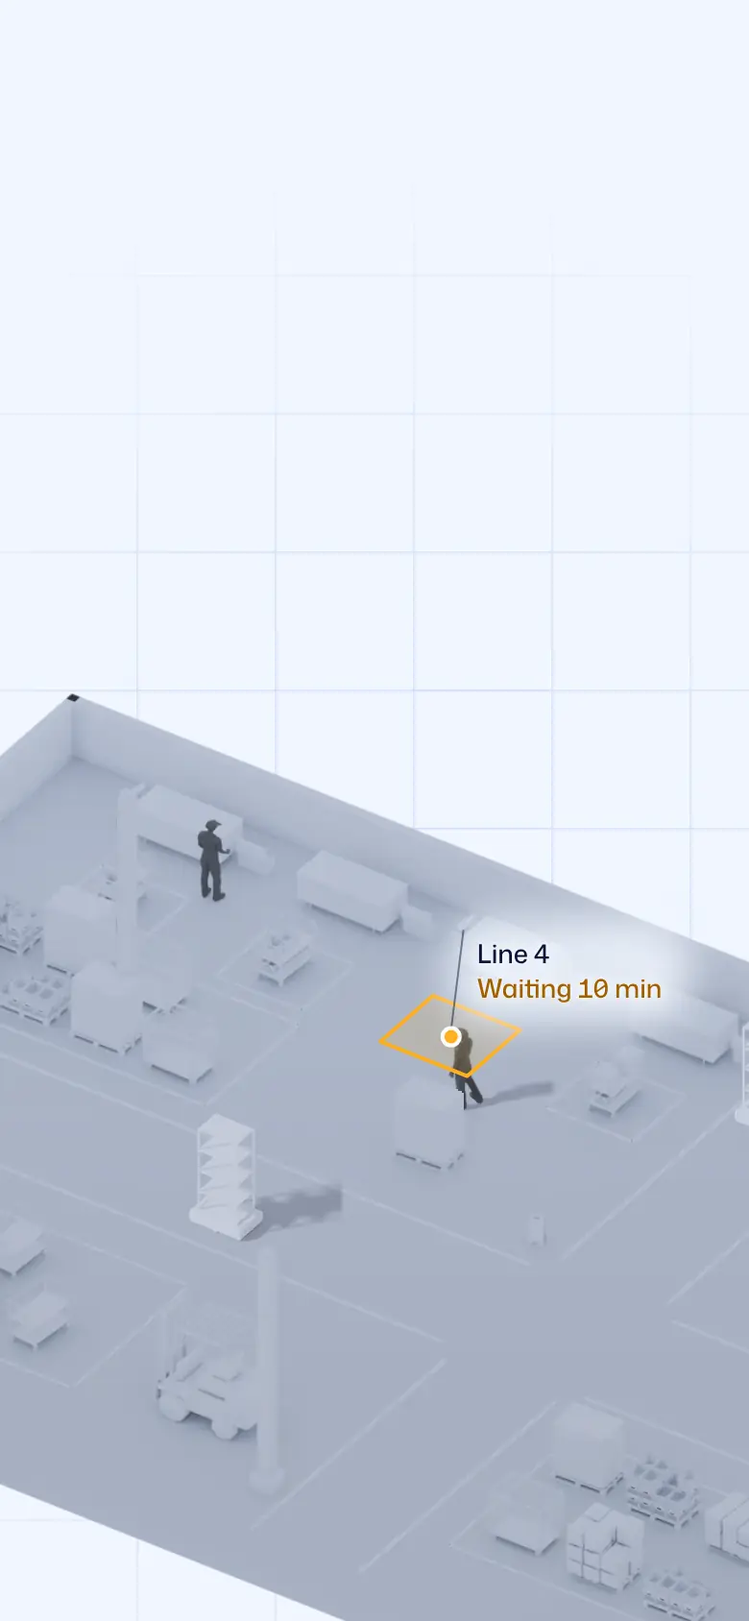
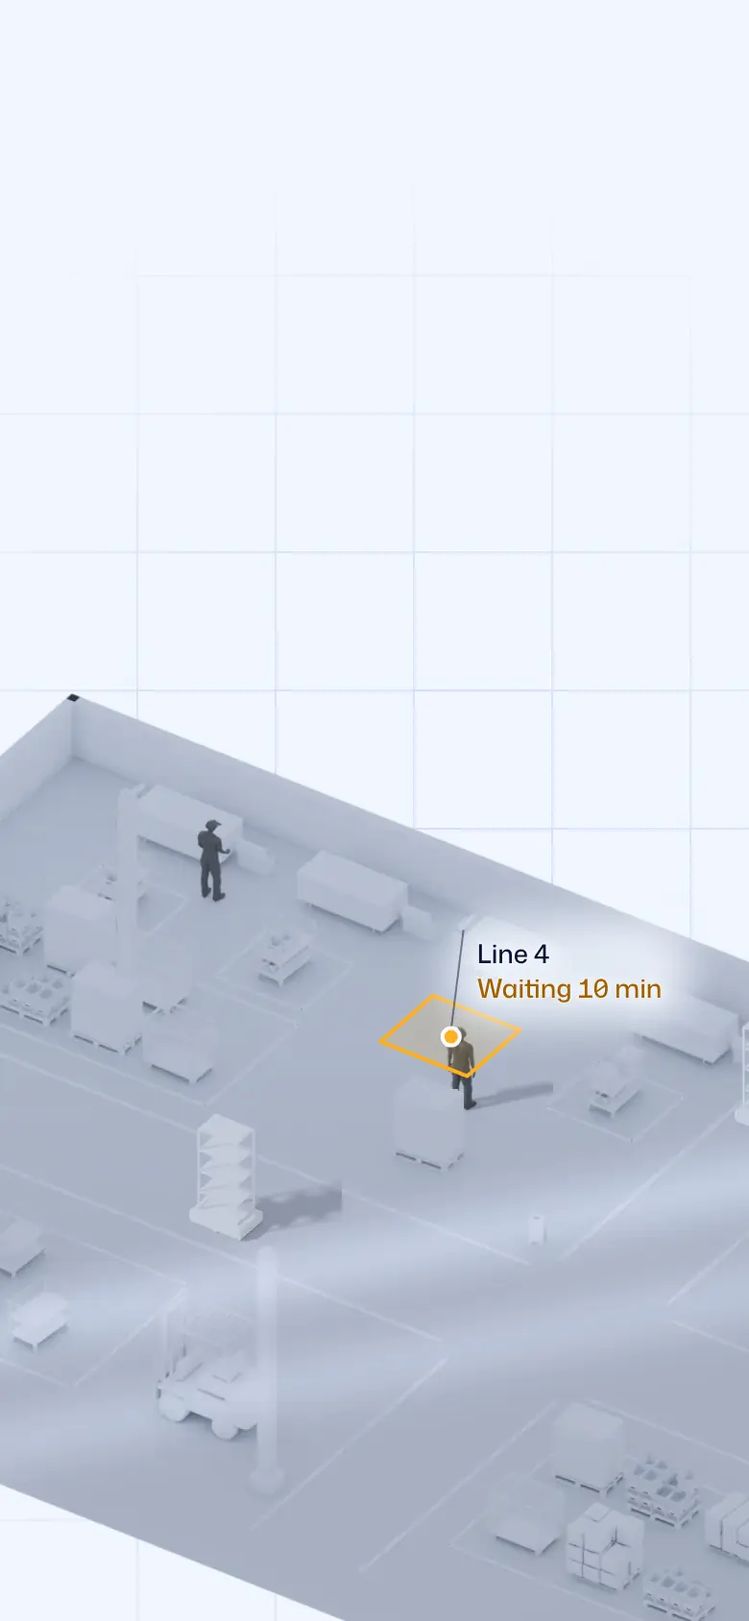
Explainer directed as a film: the supervisor's arc, the turn, chapter cards, focus and window light
He stops at a corner to look both ways and stands at a dead end; the
picture goes dark for a breath before Found with one last clock tick;
Lost, Found and Seen arrive as title cards; his wasted walk stays on the
floor beside the trolley's recorded journey; close shots fall out of focus
behind the subject (mip bias, no extra reads); window light crawls across
the floor while the minutes pass; the plant hums and a clock ticks in Lost.
The close comes back to him at his station, tablet in hand: he never had
to walk. New pose sheet from the CAD figure (sprites3.py, packposes.py).

Claude-Session: https://claude.ai/code/session_01YEydMJrMXd25Uxd8C1TWVL

Changed region(s): [[0.0, 0.7085, 1.0, 0.8318], [0.5846, 0.6469, 0.6462, 0.7085]]

diff --git a/studio/v1/js/floor.js b/studio/v1/js/floor.js
@@ -24,6 +24,8 @@
   var col = document.createElement('div'); col.className = 'flr-col';
   var head = document.createElement('div'); head.className = 'flr-head'; head.innerHTML = '<span class="flr-hn"><b></b></span><span class="flr-hp"><i></i><i></i><i></i></span>';
   var roll = document.createElement('div'); roll.className = 'flr-roll'; col.appendChild(head); col.appendChild(roll); stage.insertBefore(col, cv);
+  var dimEl = document.createElement('div'); dimEl.className = 'flr-dim'; dimEl.setAttribute('aria-hidden', 'true'); stage.insertBefore(dimEl, col);
+  var cardEl = document.createElement('div'); cardEl.className = 'flr-card'; cardEl.setAttribute('aria-hidden', 'true'); stage.insertBefore(cardEl, col);
   var hn = head.querySelector('b'), hp = [].slice.call(head.querySelectorAll('i')), CH = ['Lost', 'Found', 'Seen'], chNow = -1;
   var SS = { 3: [.14, .5], 4: [.22, .46], 5: [.06, .34] };                            // when a sentence's words light, where the picture needs them later than usual
   var AS = { 3: [.5, .78], 6: [.44, .78], 7: [.46, .62], 8: [.2, .7] }, AW = { 6: [.44, .55, .66, .75], 8: [.2, .22, .24, .26, .6, .62, .64] };   // the same for the second line; some words are timed to things in the picture
@@ -81,7 +83,7 @@
   function chase(v, t, up, dn, dt) { return t > v ? Math.min(t, v + dt / up) : Math.max(t, v - dt / dn); }
   function textFrame(tb, dt) {
     var i = Math.min(NB - 1, Math.floor(tb)), u = Math.min(1, tb - i), ch = Math.min(2, Math.floor(i / 3));
-    if (ch !== chNow) { chNow = ch; hn.textContent = CH[ch]; hn.classList.remove('sw'); void hn.offsetWidth; hn.classList.add('sw'); }
+    if (ch !== chNow) { if (live && onScreen && (ch > chNow || chNow < 0) && ap > .6) { cardEl.textContent = CH[ch]; cardEl.classList.remove('go'); void cardEl.offsetWidth; cardEl.classList.add('go', 'c' + ch); cardEl.classList.remove('c' + (ch ? ch - 1 : 2)); } chNow = ch; hn.textContent = CH[ch]; hn.classList.remove('sw'); void hn.offsetWidth; hn.classList.add('sw'); }
     hp.forEach(function (e, k) { var f = Math.max(0, Math.min(1, tb - ch * 3 - k)); if (f !== e.f) { e.f = f; e.style.setProperty('--f', f.toFixed(3)); } });
     head.style.opacity = ease(seg(ap, .3, .7));
     leads.length = 0;
@@ -185,7 +187,7 @@
 
   // ---- sound: made here, nothing to download. It starts only after a tap, a click or a key.
   var snd = (function () {
-    var on = true, ctx = null, out = null, air = null, lastPop = 0;
+    var on = true, ctx = null, out = null, air = null, lastPop = 0, roomG = null, roomV = -1;
     try { if (localStorage.getItem('flr-snd2') === '0') on = false; } catch (e) {}
     function label() { sndB.textContent = on ? 'Sound on' : 'Sound off'; sndB.setAttribute('aria-pressed', on ? 'true' : 'false'); }
     // Browsers keep a page silent until the first click, tap or key. Until then a quiet line says that one click anywhere starts the sound.
@@ -198,8 +200,9 @@
       ctx = new AC(); ctx.onstatechange = hintSet; out = ctx.createGain(); out.gain.value = 0; out.connect(ctx.destination);
       var n = ctx.sampleRate * 2, buf = ctx.createBuffer(1, n, ctx.sampleRate), d = buf.getChannelData(0), v = 0;
       for (var i = 0; i < n; i++) { v = (v + (Math.random() * 2 - 1) * .02) / 1.02; d[i] = v * 3.2; }
-      air = ctx.createBufferSource(); air.buffer = buf; air.loop = true; var f = ctx.createBiquadFilter(); f.type = 'lowpass'; f.frequency.value = 420; var g = ctx.createGain(); g.gain.value = .5;
+      air = ctx.createBufferSource(); air.buffer = buf; air.loop = true; var f = ctx.createBiquadFilter(); f.type = 'lowpass'; f.frequency.value = 420; var g = ctx.createGain(); g.gain.value = .5; roomG = g;
       air.connect(f); f.connect(g); g.connect(out); air.start();
+      var hum = ctx.createOscillator(), hg = ctx.createGain(); hum.frequency.value = 55; hg.gain.value = .035; hum.connect(hg); hg.connect(g); hum.start();   // the plant's own low hum, under the air
     }
     ['pointerdown', 'pointerup', 'keydown', 'touchend', 'click'].forEach(function (ev) { window.addEventListener(ev, function () { boot(); if (ctx && ctx.state === 'suspended') ctx.resume(); hintSet(); }, { passive: true }); });
     sndB.addEventListener('click', function () { on = !on; try { localStorage.setItem('flr-snd2', on ? '1' : '0'); } catch (e) {} label(); if (on) boot(); hintSet(); });
@@ -218,6 +221,8 @@
     var SC = [523.25, 587.33, 659.25, 783.99, 880, 1046.5, 1174.7, 1318.5];
     return {
       gate: gate, step: function () { tick(.5); },
+      tock: function (v) { if (!ctx || !on || !onScreen) return; tone(2093, 0, .045, v * .5, 'square'); tick(v); },
+      room: function (v) { v = Math.round(v * 20) / 20; if (!roomG || v === roomV) return; roomV = v; roomG.gain.setTargetAtTime(.5 * v + .02, ctx.currentTime, .35); },
       pop: function (k) { var n = performance.now(); if (n - lastPop < 45) return; lastPop = n; tone(SC[k % SC.length], 0, .5, .085); },
       pulse: function (d) { tone(1568, 0, .35, .11); tone(784, 0, .5, .05); d.forEach(function (x, i) { tone([1174.7, 1318.5, 1046.5][i], .12 + x * .012, .7, .07); }); },
       fix: function () { tone(659.25, 0, .9, .09); tone(987.77, .09, 1.1, .07); },
@@ -286,6 +291,8 @@
       case 5: return phone ? { f: [H[0], H[1], .8], s: 5.4 } : { f: [H[0] - .2, H[1], .8], s: 8.4 };
       case 6: return phone ? { f: [14.5, 10, .5], s: 31 } : { f: [16, 9.6, .5], s: 38 };
       case 7: return phone ? { f: [15.5, 9.6, .5], s: 28 } : { f: [16.4, 9.4, .5], s: 35 };
+      case 9: var L9 = shotOf(8, 1, st), e9 = ease5(seg(u, .06, .56)), T9 = phone ? { f: [WALK[0][0], WALK[0][1] - .6, .9], s: 10 } : { f: [WALK[0][0] - .4, WALK[0][1] - .2, .9], s: 16 };
+        return { f: [0, 1, 2].map(function (k) { return lerp(L9.f[k], T9.f[k], e9); }), s: Math.exp(lerp(Math.log(L9.s), Math.log(T9.s), e9)) };
       default: var e8 = i === 8 ? ease5(seg(u, .3, .8)) : 1; return phone ? { f: [lerp(14.5, 16.7, e8), lerp(10, 7.8, e8), lerp(.5, 9.5, e8)], s: lerp(34, 48, e8) } : { f: [lerp(15.6, 14.6, e8), lerp(9.6, 10.4, e8), lerp(.5, 10, e8)], s: lerp(41, 62, e8) };
     }
   }
@@ -305,10 +312,26 @@
   var things = [], amberIdx = {}, AMRI = [];
   function story(i, u) {
     var st = {};
-    var wd = i < 1 ? 0 : i === 1 ? .7 * ease(seg(u, .12, 1)) : i === 2 ? .7 + .3 * ease(seg(u, 0, .6)) : 1;
-    st.wd = wd * WTOT; st.walker = walkAt(st.wd);
-    st.walkA = i < 3 ? 1 : i === 3 ? 1 - seg(u, 0, .2) : i === 4 ? seg(u, .3, .5) : 1;
-    st.trail = i === 1 ? 1 : i === 2 ? 1 : i === 3 ? 1 - seg(u, 0, .3) : 0;
+    // the clock runs straight on; his walk stops twice: at the first corner he looks both ways, at the dead end he just stands
+    st.clk = i < 1 ? 0 : i === 1 ? .7 * ease(seg(u, .12, 1)) : i === 2 ? .7 + .3 * ease(seg(u, 0, .6)) : 1;
+    var c1 = WL[2], c2 = WL[3], d1 = .7 * WTOT, d, pose = null;
+    if (i < 1) { d = 0; pose = [1, 1]; }
+    else if (i === 1) {
+      if (u < .12) { d = 0; pose = [1, 1]; } else if (u < .32) d = c1 * seg(u, .12, .32); else if (u < .44) { d = c1; pose = [u < .38 ? 1 : 2, 3]; }
+      else if (u < .54) d = lerp(c1, c2, seg(u, .44, .54)); else if (u < .66) { d = c2; pose = [3, 2]; } else d = lerp(c2, d1, seg(u, .66, 1));
+    } else if (i === 2) { d = lerp(d1, WTOT, ease(seg(u, 0, .6))); if (u >= .6) pose = [4, 3]; }
+    else { d = WTOT; pose = i < 6 ? [0, 2] : [i === 9 && u > .55 && u < .68 ? 6 : 5, 1]; }
+    st.wd = d; st.walker = i < 6 ? walkAt(d) : { x: WALK[0][0], y: WALK[0][1], h: 1, seg: 1 }; st.pose = pose;
+    st.walkA = i < 3 ? 1 : i === 3 ? 1 - seg(u, 0, .2) : i === 4 ? seg(u, .3, .5) : i === 5 ? 1 - seg(u, .88, 1) : i === 6 ? seg(u, .3, .5) : 1;
+    // his wasted walk stays on the floor while the trolley's own journey is drawn beside it
+    st.trail = i === 1 ? 1 : i === 2 ? 1 : i === 3 ? 1 : i === 4 ? 1 : i === 5 ? 1 - seg(u, .1, .3) : 0;
+    // the turn: the light drops and the plant goes quiet for a moment before Found
+    st.dim = i === 2 ? ease(seg(u, .8, 1)) : i === 3 ? 1 - ease(seg(u, .05, .3)) : 0;
+    // window light crawling across the floor while the minutes pass
+    st.shaft = i < 3 ? [lerp(-2, 26, (i + u) / 3), .16 * (1 - st.dim)] : [0, 0];
+    // focus: the far plant goes soft on the close shots
+    st.dof = i === 3 ? 2.6 * ease(seg(u, .1, .5)) : i === 4 ? 2.6 * (1 - seg(u, 0, .3)) : i === 5 ? 1.8 * ease(seg(u, .3, .6)) : i === 9 ? 1.1 * ease(seg(u, .3, .6)) : 0;
+    st.fp = i <= 4 ? M.tag : i === 5 ? [M.hero[0], M.hero[1], .9] : [WALK[0][0], WALK[0][1], .9];
     st.due = i <= 2 ? (i === 0 ? seg(u, .1, .22) : 1) : i === 3 ? 1 - seg(u, 0, .25) : 0;
     st.meas = i === 2 ? ease(seg(u, .08, .42)) : 0; st.measA = i === 2 ? 1 : i === 3 ? 1 - seg(u, 0, .25) : 0;
     st.tag = i < 3 ? 0 : i === 3 ? ease(seg(u, .3, .44)) : 1;
@@ -321,7 +344,7 @@
     st.all = i < 6 ? 0 : i === 6 ? ease(seg(u, .86, .97)) : 1;
     st.dots = i < 5 ? 0 : 1;
     st.amber = i === 7 ? ease(seg(u, .56, .68)) : i >= 8 ? 1 : 0;
-    st.l1 = i < 8 ? 0 : i === 8 ? ease(seg(u, .2, .3)) : 1; st.l2 = 0; st.l3 = i < 8 ? 0 : i === 8 ? ease5(seg(u, .34, .8)) : 1;
+    st.l1 = i < 8 ? 0 : i === 8 ? ease(seg(u, .2, .3)) : 1; st.l2 = 0; st.l3 = i < 8 ? 0 : i === 8 ? ease5(seg(u, .34, .8)) : 1 - ease(seg(u, .02, .32));
     // sunlight: Lost stands under a flat sky. Light opens around the first thing that is located, then crosses the whole floor.
     st.sun = i < 5 ? 0 : i === 5 ? 4.5 * ease(seg(u, .2, .5)) : i === 6 ? lerp(4.5, 48, ease(seg(u, .03, .42))) : 99;
     // colour script: Lost is a cold, drained morning; the light that comes with the first located trolley warms the plant for good
@@ -356,17 +379,18 @@
 
   // ---- WebGL
   var VS1 = 'attribute vec2 a;void main(){gl_Position=vec4(a,0.,1.);}';
-  var FS1 = 'precision highp float;uniform vec2 uRes,uA,uF,uPl;uniform float uPpm;uniform sampler2D tWc,tWk,tMc,tMk,tCc,tCk,tXc,tXk,tWi,tMi,tCi,tXi,tLut;uniform vec4 uMid,uClose,uMac,uTx,uSun;uniform vec3 uW;uniform vec2 uO,uIa,uIb,uDr;uniform float uDay,uCool;uniform sampler2D tD;float gF;' +
+  var FS1 = 'precision highp float;uniform vec2 uRes,uA,uF,uPl;uniform float uPpm;uniform sampler2D tWc,tWk,tMc,tMk,tCc,tCk,tXc,tXk,tWi,tMi,tCi,tXi,tLut;uniform vec4 uMid,uClose,uMac,uTx,uSun;uniform vec3 uW;uniform vec2 uO,uIa,uIb,uDr;uniform float uDay,uCool,uDof,uFd;uniform vec2 uSh;uniform sampler2D tD;float gF;' +
     'vec3 grade(vec3 col,float L,float dn,vec2 s){float lum=dot(col,vec3(.2126,.7152,.0722));float q=uCool*(1.-.6*L);float wv=L*(1.-uCool);col=mix(col,col*col*(3.-2.*col),.22+.18*wv);col=mix(col,vec3(lum)*vec3(.87,.92,1.04),q*.5);col*=1.-.07*q;col+=wv*(vec3(.05,.025,-.035)*(1.-.35*uDay)*smoothstep(.3,1.,lum)+vec3(-.02,-.006,.03)*(1.-smoothstep(0.,.55,lum)));col=mix(col,mix(vec3(.8,.85,.94),vec3(.98,.95,.9),wv),smoothstep(.3,1.,dn)*(.24-.1*wv));float vg=smoothstep(.35,1.15,length((s-uA)/uRes.y));col*=1.-vg*(.1+.08*q);col.b+=vg*.02*q;return clamp(col,0.,1.);}' +
     'float edge(vec2 u){vec2 d=min(u,1.-u);return smoothstep(0.,.07,min(d.x,d.y));}float r1(sampler2D t,vec2 u){float id=texture2D(t,u).r*255.;float v=texture2D(tLut,vec2((id+.5)/256.,.5)).r;return id<.5?max(v,gF):v;}float rv(sampler2D t,vec2 u,float d){vec2 o=vec2(d*.5,d*.5*uRes.x/uRes.y*0.+d*.5);return(r1(t,u+vec2(-o.x,-o.y))+r1(t,u+vec2(o.x,-o.y))+r1(t,u+vec2(-o.x,o.y))+r1(t,u+vec2(o.x,o.y)))*.25;}' +
     'void main(){vec2 s=vec2(gl_FragCoord.x,uRes.y-gl_FragCoord.y);vec2 m=(s-uA)/uPpm+uF;vec2 uv=m/uPl;vec2 wq=uv-uO;gF=1.-smoothstep(uSun.z-uSun.w,uSun.z,distance(vec2(dot(uIa,wq),dot(uIb,wq)),uSun.xy));' +
-    'vec4 c=vec4(0.);if(uv.x>0.&&uv.x<1.&&uv.y>0.&&uv.y<1.)c=mix(texture2D(tWk,uv),texture2D(tWc,uv),rv(tWi,uv,uTx.x));' +
-    'if(uW.x>0.){vec2 u=(uv-uMid.xy)/uMid.zw;if(u.x>0.&&u.x<1.&&u.y>0.&&u.y<1.)c=mix(c,mix(texture2D(tMk,u),texture2D(tMc,u),rv(tMi,u,uTx.y)),edge(u)*uW.x);}' +
-    'if(uW.y>0.){vec2 u=(uv-uClose.xy)/uClose.zw;if(u.x>0.&&u.x<1.&&u.y>0.&&u.y<1.)c=mix(c,mix(texture2D(tCk,u),texture2D(tCc,u),rv(tCi,u,uTx.z)),edge(u)*uW.y);}' +
-    'if(uW.z>0.){vec2 u=(uv-uMac.xy)/uMac.zw;if(u.x>0.&&u.x<1.&&u.y>0.&&u.y<1.)c=mix(c,mix(texture2D(tXk,u),texture2D(tXc,u),rv(tXi,u,uTx.w)),edge(u)*uW.z);}' +
+    'vec4 dd=texture2D(tD,uv);float dn=(dd.r*65280.+dd.g*255.)/65535.;float bb=uDof*smoothstep(.08,2.2,abs(dn-uFd)*(uDr.y-uDr.x));' +
+    'vec4 c=vec4(0.);if(uv.x>0.&&uv.x<1.&&uv.y>0.&&uv.y<1.)c=mix(texture2D(tWk,uv,bb),texture2D(tWc,uv,bb),rv(tWi,uv,uTx.x));' +
+    'if(uW.x>0.){vec2 u=(uv-uMid.xy)/uMid.zw;if(u.x>0.&&u.x<1.&&u.y>0.&&u.y<1.)c=mix(c,mix(texture2D(tMk,u,bb),texture2D(tMc,u,bb),rv(tMi,u,uTx.y)),edge(u)*uW.x);}' +
+    'if(uW.y>0.){vec2 u=(uv-uClose.xy)/uClose.zw;if(u.x>0.&&u.x<1.&&u.y>0.&&u.y<1.)c=mix(c,mix(texture2D(tCk,u,bb),texture2D(tCc,u,bb),rv(tCi,u,uTx.z)),edge(u)*uW.y);}' +
+    'if(uW.z>0.){vec2 u=(uv-uMac.xy)/uMac.zw;if(u.x>0.&&u.x<1.&&u.y>0.&&u.y<1.)c=mix(c,mix(texture2D(tXk,u,bb),texture2D(tXc,u,bb),rv(tXi,u,uTx.w)),edge(u)*uW.z);}' +
     'float L=max(gF,uDay);c.rgb*=mix(vec3(.9,.92,.955),vec3(1.),L);' +
     'vec2 wf=vec2(dot(uIa,wq),dot(uIb,wq));vec2 gp=fract(wf/vec2(7.5,6.6))-.5;float pool=smoothstep(.44,.08,length(gp*vec2(1.,1.25)));' +
-    'if(c.a>.001){vec3 col=c.rgb/c.a;col*=1.+.07*pool*L*(1.-uCool);col+=vec3(.06,.035,0.)*gF*(1.-gF)*4.*(1.-uDay);vec4 dd=texture2D(tD,uv);float dn=(dd.r*65280.+dd.g*255.)/65535.;c.rgb=grade(col,L,dn,s)*c.a;}gl_FragColor=c;}';
+    'if(c.a>.001){vec3 col=c.rgb/c.a;col*=1.+.07*pool*L*(1.-uCool);col+=vec3(.06,.035,0.)*gF*(1.-gF)*4.*(1.-uDay);float pr=dot(wf,vec2(.8,-.6))-uSh.x;float sh=uSh.y*(exp(-pr*pr/1.3)+.7*exp(-(pr-3.4)*(pr-3.4)/1.3));col=col*(1.+sh)+sh*vec3(.035,.025,.0);c.rgb=grade(col,L,dn,s)*c.a;}gl_FragColor=c;}';
   var VS2 = 'attribute vec2 a;uniform vec2 uRes,uA,uF;uniform float uPpm;uniform vec4 uR;varying vec2 vU,vM;void main(){vU=a;vM=uR.xy+a*uR.zw;vec2 s=uA+(vM-uF)*uPpm;gl_Position=vec4(s.x/uRes.x*2.-1.,1.-s.y/uRes.y*2.,0.,1.);}';
   var FS2 = 'precision highp float;varying vec2 vU,vM;uniform sampler2D tAt,tD;uniform vec2 uCa,uCb,uPl,uDr,uRes,uA;uniform float uMix,uAl,uBy,uBd,uTan,uCool,uDay;' +
     'vec3 grade(vec3 col,float L,float dn,vec2 s){float lum=dot(col,vec3(.2126,.7152,.0722));float q=uCool*(1.-.6*L);float wv=L*(1.-uCool);col=mix(col,col*col*(3.-2.*col),.22+.18*wv);col=mix(col,vec3(lum)*vec3(.87,.92,1.04),q*.5);col*=1.-.07*q;col+=wv*(vec3(.05,.025,-.035)*(1.-.35*uDay)*smoothstep(.3,1.,lum)+vec3(-.02,-.006,.03)*(1.-smoothstep(0.,.55,lum)));col=mix(col,mix(vec3(.8,.85,.94),vec3(.98,.95,.9),wv),smoothstep(.3,1.,dn)*(.24-.1*wv));float vg=smoothstep(.35,1.15,length((s-uA)/uRes.y));col*=1.-vg*(.1+.08*q);col.b+=vg*.02*q;return clamp(col,0.,1.);}' +
@@ -411,7 +435,7 @@
     S.classList.add('flr-stills');                                             // the finished picture of this sentence shows while the plant loads
     stills = true;
     var L = (phone || Math.max(screen.width, screen.height) * (window.devicePixelRatio || 1) < 1500) ? 'P/' : 'L/';
-    var names = ['wide_col', 'wide_clay', 'mid_col', 'mid_clay', 'close_col', 'close_clay', 'macro_col', 'macro_clay', 'sprites'];
+    var names = ['wide_col', 'wide_clay', 'mid_col', 'mid_clay', 'close_col', 'close_clay', 'macro_col', 'macro_clay', 'sprites', 'poses'];
     var idn = ['wide_id', 'mid_id', 'close_id', 'macro_id'];
     // floor.json is always checked with the server and names the present set of pictures, so a new set is never mixed with a kept old one
     fetch(base + 'floor.json').then(function (r) { return r.json(); }).then(function (m) {
@@ -470,6 +494,10 @@
   var lastStep = -1, pulsed = false, fixed = false, T0 = performance.now(), frozen = null;
   function frame(tb, time) {
     var i = Math.min(NB - 1, Math.floor(tb)), u = Math.min(1, tb - i), st = story(i, u), c = camAt(i, u, st);
+    var dv = Math.round(st.dim * 100) / 100; if (dv !== frame.dv) { frame.dv = dv; stage.style.setProperty('--dim', dv); }
+    if (i <= 2 && st.dim < .5 && Math.floor(time) !== frame.tk) { frame.tk = Math.floor(time); snd.tock(.09); }
+    if (i === 2 && st.dim > .95 && !frame.held) { frame.held = true; snd.tock(.22); } if (i < 2 || (i === 2 && st.dim < .5)) frame.held = false;
+    snd.room(i <= 2 ? 1 - st.dim : i === 3 ? lerp(0, .35, seg(u, .3, 1)) : .35);
     // camera
     var area = phone ? vw * .98 : vw * .6, f = Mxy(c.f[0], c.f[1], c.f[2]), arr = 1 - easeO(seg(ap, .1, 1));
     cam.ppm = area / (c.s * (1 + .22 * arr)); cam.fx = f[0]; cam.fy = f[1]; cam.ax = phone ? vw * .5 : vw * .685; cam.ay = (phone ? vh * .63 : vh * .525) + arr * vh * .1;
@@ -481,7 +509,7 @@
     gl.uniform2f(U.uRes, W, Hh); gl.uniform2f(U.uA, cam.ax * dpr, cam.ay * dpr); gl.uniform2f(U.uF, cam.fx, cam.fy); gl.uniform1f(U.uPpm, cam.ppm * dpr); gl.uniform2f(U.uPl, M.scale, M.scale / M.aspect); setLut(st); gl.uniform1i(U.tLut, 12);
     ['wide_col', 'wide_clay', 'mid_col', 'mid_clay', 'close_col', 'close_clay', 'macro_col', 'macro_clay', 'wide_id', 'mid_id', 'close_id', 'macro_id'].forEach(function (n, k) { gl.activeTexture(gl.TEXTURE0 + k); gl.bindTexture(gl.TEXTURE_2D, tex[n].t); gl.uniform1i(U[['tWc', 'tWk', 'tMc', 'tMk', 'tCc', 'tCk', 'tXc', 'tXk', 'tWi', 'tMi', 'tCi', 'tXi'][k]], k); });
     var dt2 = M.x[0] * M.y[1] - M.y[0] * M.x[1]; gl.uniform2f(U.uO, M.o[0], M.o[1]); gl.uniform2f(U.uIa, M.y[1] / dt2, -M.y[0] / dt2); gl.uniform2f(U.uIb, -M.x[1] / dt2, M.x[0] / dt2);
-    gl.uniform1f(U.uDay, st.all); gl.uniform1f(U.uCool, st.cool); gl.uniform2f(U.uDr, M.depth[0], M.depth[1]); gl.activeTexture(gl.TEXTURE13); gl.bindTexture(gl.TEXTURE_2D, tex.depth.t); gl.uniform1i(U.tD, 13);
+    gl.uniform1f(U.uDay, st.all); gl.uniform1f(U.uCool, st.cool); gl.uniform2f(U.uDr, M.depth[0], M.depth[1]); gl.uniform1f(U.uDof, st.dof); gl.uniform1f(U.uFd, (depthOf(st.fp[0], st.fp[1], st.fp[2]) - M.depth[0]) / (M.depth[1] - M.depth[0])); gl.uniform2f(U.uSh, st.shaft[0], st.shaft[1]); gl.activeTexture(gl.TEXTURE13); gl.bindTexture(gl.TEXTURE_2D, tex.depth.t); gl.uniform1i(U.tD, 13);
     gl.uniform4f(U.uSun, M.hero[0], M.hero[1], st.sun, Math.min(6, st.sun * .8) + .01);
     gl.uniform4f(U.uTx, 1 / tex.wide_id.w, 1 / tex.mid_id.w, 1 / tex.close_id.w, 1 / tex.macro_id.w); gl.uniform4fv(U.uMid, M.mid); gl.uniform4fv(U.uClose, M.close); gl.uniform4fv(U.uMac, M.macro);
     var dp = cam.ppm * dpr, wp = tex.wide_col.w / M.scale, mp = tex.mid_col.w / (M.mid[2] * M.scale), cp = tex.close_col.w / (M.close[2] * M.scale);
@@ -494,11 +522,12 @@
     gl.activeTexture(gl.TEXTURE0); gl.bindTexture(gl.TEXTURE_2D, tex.sprites.t); gl.uniform1i(U.tAt, 0); gl.activeTexture(gl.TEXTURE1); gl.bindTexture(gl.TEXTURE_2D, tex.depth.t); gl.uniform1i(U.tD, 1);
     var sp = [], wk = M.spr.walk, ar = M.spr.amr, w = st.walker;
     var fr = Math.floor(st.wd / wk.stride * 8) % 8;
-    if (st.walkA > 0) sp.push({ x: w.x, y: w.y, s: wk.size, an: wk.anchor, ca: [fr, 4 + w.h], cb: [fr, 4 + w.h], mix: 1, al: st.walkA });
+    if (st.walkA > 0) { if (st.pose && tex.poses) sp.push({ x: w.x, y: w.y, s: wk.size, an: wk.anchor, ca: st.pose, cb: st.pose, mix: 1, al: st.walkA, t: tex.poses }); else sp.push({ x: w.x, y: w.y, s: wk.size, an: wk.anchor, ca: [fr, 4 + w.h], cb: [fr, 4 + w.h], mix: 1, al: st.walkA }); }
     for (var k = 0; k < 2; k++) { var A = AMRI[k]; var hd = ((Math.round(A.th / (Math.PI / 8)) % 16) + 16) % 16; sp.push({ x: A.x, y: A.y, s: ar.size, an: ar.anchor, ca: [hd % 8, hd >> 3], cb: [hd % 8, 2 + (hd >> 3)], mix: A.rev, al: 1 }); }
     sp.forEach(function (s) { s.d = depthOf(s.x, s.y, 0); }); sp.sort(function (a, b) { return b.d - a.d; });
     sp.forEach(function (s) {
       var b = Mxy(s.x, s.y, 0); gl.uniform4f(U.uR, b[0] - s.an[0] * s.s, b[1] - s.an[1] * s.s, s.s, s.s);
+      gl.activeTexture(gl.TEXTURE0); gl.bindTexture(gl.TEXTURE_2D, (s.t || tex.sprites).t);
       gl.uniform2f(U.uCa, s.ca[0] / 8, s.ca[1] / 8); gl.uniform2f(U.uCb, s.cb[0] / 8, s.cb[1] / 8); gl.uniform1f(U.uMix, s.mix); gl.uniform1f(U.uAl, s.al); gl.uniform1f(U.uBy, b[1]); gl.uniform1f(U.uBd, s.d);
       gl.drawArrays(gl.TRIANGLE_STRIP, 0, 4);
     });
@@ -557,7 +586,7 @@
             if (Math.abs(n.bi - i) <= 1 || n.at === 'due' || n.inn) { n.el.style.transform = 'translate(' + s[0].toFixed(1) + 'px,' + s[1].toFixed(1) + 'px)'; }
     });
     if (xyEl && i === 7) { var xv = 'x ' + AMRI[0].x.toFixed(1) + ' m, y ' + AMRI[0].y.toFixed(1) + ' m'; if (xv !== xyEl.t) { xyEl.t = xv; xyEl.textContent = xv; } }
-    if (searchEl) { var sm = fmt(st.wd / WTOT * 561, false), wm = Math.round(st.wd) + ' m walked'; if (sm !== searchEl.t) { searchEl.t = sm; searchEl.textContent = sm; } if (wm !== walkedEl.t) { walkedEl.t = wm; walkedEl.textContent = wm; } }
+    if (searchEl) { var sm = fmt(st.clk * 561, false), wm = Math.round(st.wd) + ' m walked'; if (sm !== searchEl.t) { searchEl.t = sm; searchEl.textContent = sm; } if (wm !== walkedEl.t) { walkedEl.t = wm; walkedEl.textContent = wm; } }
     // --- the ruler: a true length at this distance
     var nk = 0; while (nk < NICE.length - 1 && NICE[nk] * cam.ppm < 56) nk++;
     var nl = NICE[nk] < 1 ? Math.round(NICE[nk] * 100) + ' cm' : NICE[nk] + ' m'; scaleI.style.width = (NICE[nk] * cam.ppm).toFixed(1) + 'px'; if (nl !== scaleT.t) { scaleT.t = nl; scaleT.textContent = nl; }
@@ -596,7 +625,7 @@
       L.on = true; L.p.style.display = L.c.style.display = ''; L.p.style.opacity = (ld.a * .7).toFixed(2);
     });
     // --- clocks
-    clocks.forEach(function (c) { var v = c.due ? fmt(c.base + st.wd / WTOT * 561, false) : fmt(c.base + time, true); if (v !== c.last) { c.last = v; c.el.textContent = v; } });
+    clocks.forEach(function (c) { var v = c.due ? fmt(c.base + st.clk * 561, false) : fmt(c.base + time, true); if (v !== c.last) { c.last = v; c.el.textContent = v; } });
   }
 
   // ---- point at a located thing to read where it is

diff --git a/studio/v1/css/floor.css b/studio/v1/css/floor.css
@@ -166,3 +166,15 @@
   .flr-pin{left:-3.5px;top:-3.5px;margin:0}
 }
 
+/* the turn: the picture side goes dark for a breath before Found */
+.flr-dim{display:none}
+.flr-on .flr-dim{display:block;position:absolute;inset:0;z-index:3;pointer-events:none;opacity:var(--dim,0);background:linear-gradient(90deg,rgba(6,10,30,0) 27%,rgba(6,10,30,.5) 36%,rgba(6,10,30,.76) 48%)}
+/* chapter cards: the title of each chapter, once, like a film */
+.flr-card{display:none}
+.flr-on .flr-card{display:block;position:absolute;left:68.5%;top:50%;z-index:3;pointer-events:none;opacity:0;transform:translate(-50%,-50%);font:600 clamp(56px,8.4vw,132px)/1 "AmI Display","AmI Text",Arial,sans-serif;letter-spacing:-.045em;color:var(--flr-ink);white-space:nowrap}
+.flr-on .flr-card.c1{color:#f4f7ff}
+.flr-on .flr-card.go{animation:flr-card 1.7s cubic-bezier(.2,.7,.2,1) both}
+@keyframes flr-card{0%{opacity:0;transform:translate(-50%,-46%)}22%{opacity:1;transform:translate(-50%,-50%)}62%{opacity:1}100%{opacity:0;transform:translate(-50%,-52%)}}
+@media (max-aspect-ratio:4/5){.flr-on .flr-card{left:50%;top:64%}.flr-on .flr-dim{background:linear-gradient(180deg,rgba(6,10,30,0) 30%,rgba(6,10,30,.74) 54%)}}
+@media (prefers-reduced-motion:reduce){.flr-on .flr-card.go{animation:none}}
+.flr-shot .flr-card{display:none!important}

diff --git a/extras/explainer-floor/blender/sprites3.py b/extras/explainer-floor/blender/sprites3.py
@@ -1,0 +1,43 @@
+# The supervisor's still poses (sprites3), from sprites2. The moving things, each alone on a shadow-catching floor, seen from the bay's own camera direction and in its light.
+# usage: python sprites.py outdir [test]
+import sys, math, os, json; sys.path.insert(0, os.path.dirname(os.path.abspath(__file__)))
+import bpy, plant as P, people
+from mathutils import Vector
+rad = math.radians
+OUT = os.path.abspath(sys.argv[-2] if sys.argv[-1] == 'test' else sys.argv[-1]); TEST = sys.argv[-1] == 'test'; os.makedirs(OUT, exist_ok=True)
+P.reset(); sc = P.sc
+P.worn('amrshell', (.022, .032, .1, 1), (.28, .5), 0., 5); P.worn('body', (.013, .147, 1., 1), (.25, .5), 0., 4); P.worn('powder', (.022, .032, .1, 1), (.3, .6), .2, 7)
+mm = P.M()
+AZ, EL = rad(124), rad(36); CELL = 384
+fl = P.box('catch', (40, 40, .2), (0, 0, -.1), P.mat('catch', (.55, .6, .68, 1), .5), 0); fl.is_shadow_catcher = True
+w = bpy.data.worlds.new('w'); sc.world = w; w.use_nodes = True; bg = w.node_tree.nodes['Background']; bg.inputs['Color'].default_value = (.86, .91, 1.0, 1); bg.inputs['Strength'].default_value = .85
+bpy.ops.object.light_add(type='SUN'); sun = bpy.context.object; sun.data.energy = 5.6; sun.data.angle = rad(6); sun.data.color = (1, .97, .92); sun.rotation_euler = (rad(54), 0, rad(-38))
+d = Vector((math.cos(EL) * math.cos(AZ), math.cos(EL) * math.sin(AZ), -math.sin(EL)))
+cam = bpy.data.objects.new('cam', bpy.data.cameras.new('cam')); sc.collection.objects.link(cam); sc.camera = cam; cam.rotation_euler = d.to_track_quat('-Z', 'Y').to_euler(); cam.data.type = 'ORTHO'; cam.data.clip_end = 400
+sc.render.engine = 'CYCLES'; sc.cycles.samples = 64; sc.cycles.use_denoising = True; sc.cycles.max_bounces = 6; sc.cycles.diffuse_bounces = 3; sc.cycles.use_adaptive_sampling = True; sc.cycles.adaptive_threshold = .02
+sc.render.resolution_x = sc.render.resolution_y = CELL; sc.render.film_transparent = True
+sc.view_settings.view_transform = 'AgX'; sc.view_settings.look = 'None'; sc.view_settings.exposure = .1
+sc.render.image_settings.file_format = 'PNG'; sc.render.image_settings.color_mode = 'RGBA'
+from bpy_extras.object_utils import world_to_camera_view as w2c
+meta = {}
+rt = d.cross(Vector((0, 0, 1))).normalized()
+def frame(size, zc, off=0.):
+    cam.data.ortho_scale = size; cam.location = Vector((0, 0, zc)) + rt * off - d * 120; bpy.context.view_layer.update()
+    v = w2c(sc, cam, Vector((0, 0, 0))); return [round(v.x, 5), round(1 - v.y, 5)]
+def shot(name):
+    sc.render.filepath = f'{OUT}/{name}.png'; bpy.ops.render.render(write_still=True)
+clay = P.mat('clay', (.86, .885, .93, 1), .55)
+def kids(o):
+    out = [o]
+    for c in o.children: out += kids(c)
+    return out
+PN = ['stand', 'lookL', 'lookR', 'hips', 'search', 'tab0', 'tab1']
+# ---- the walker: 8 frames, 4 headings (east, north, west, south)
+with bpy.data.libraries.load('/home/user/x3d/out/people.blend') as (src, dst): dst.objects = [n for n in src.objects if n.startswith('worker_')]
+LIB = {o.name: o for o in dst.objects}
+meta['pose'] = dict(size=2.6, anchor=frame(2.6, .78, .45), n=4, names=PN)
+for h in (range(4) if not TEST else [3]):
+    for f, pn in enumerate(PN):
+        if os.path.exists(f'{OUT}/pose_{h}_{f}.png'): continue
+        o = bpy.data.objects.new('person', LIB['worker_' + pn].data); sc.collection.objects.link(o); o.rotation_euler = (0, 0, h * math.pi / 2 + math.pi / 2); shot(f'pose_{h}_{f}'); o.hide_render = True
+json.dump(meta, open(f'{OUT}/sprites.json', 'w'))

diff --git a/extras/explainer-floor/blender/walk.py b/extras/explainer-floor/blender/walk.py
@@ -44,6 +44,22 @@ def pose_stand():
     u, l = ARM('L'); chain(u, (.2, .1, -1)); chain(l, (-.25, -.5, -.6)); aim('wrist.L', (-.5, -.5, -.3))   # hand on hip-ish / holding a tablet
     u, l = ARM('R'); chain(u, (-.16, -.05, -1)); chain(l, (-.02, -.75, -.55)); aim('wrist.R', (.1, -.9, -.2))
 
+def pose_look(sd):
+    """Stopped, weight on one leg, head and shoulders turned to scan an aisle. sd = +1 left, -1 right."""
+    pose_stand(); turn('head', 12)                         # undo the stand's glance down-left
+    turn('spine03', 9 * sd); turn('spine04', 6 * sd); turn('neck01', 13 * sd); turn('head', 24 * sd); turn('head', -5, (1, 0, 0))
+    u, l = ARM('L'); chain(u, (.16, .02, -1)); chain(l, (.12, -.15, -1)); aim('wrist.L', (.05, -.2, -1))
+    u, l = ARM('R'); chain(u, (-.16, .02, -1)); chain(l, (-.12, -.15, -1)); aim('wrist.R', (-.05, -.2, -1))
+def pose_hips():
+    """Hands on hips, head dropped: the dead end."""
+    pose_stand(); turn('head', 12); turn('head', 14, (1, 0, 0)); turn('neck01', 6, (1, 0, 0))
+    u, l = ARM('L'); chain(u, (.45, .15, -.9)); chain(l, (-.5, -.35, -.25)); aim('wrist.L', (-.5, -.3, -.3))
+    u, l = ARM('R'); chain(u, (-.45, .15, -.9)); chain(l, (.5, -.35, -.25)); aim('wrist.R', (.5, -.3, -.3))
+def pose_tablet(nod):
+    """At his station, a tablet held in both hands; nod tips the head down to read it."""
+    pose_stand(); turn('head', 12); turn('head', 14 + nod * 14, (1, 0, 0))
+    u, l = ARM('L'); chain(u, (.2, -.15, -1)); chain(l, (-.3, -.85, -.1)); aim('wrist.L', (-.4, -.8, .1))
+    u, l = ARM('R'); chain(u, (-.2, -.15, -1)); chain(l, (.3, -.85, -.1)); aim('wrist.R', (.4, -.8, .1))
 import math as _m
 def pose_w(ph):
     """One frame of a plain walk. ph in 0..1; the right leg leads at ph = 0."""
@@ -62,7 +78,7 @@ import plant as P
 P.sc = bpy.context.scene; P.col = bpy.context.scene.collection
 hat0 = P.b_hardhat(); ink = P.M()['ink']
 made = []
-POSES = [('search', pose_search), ('stand', pose_stand)] + [('w%d' % k, (lambda k=k: pose_w(k / 8.))) for k in range(8)]
+POSES = [('search', pose_search), ('stand', pose_stand), ('lookL', lambda: pose_look(1)), ('lookR', lambda: pose_look(-1)), ('hips', pose_hips), ('tab0', lambda: pose_tablet(0)), ('tab1', lambda: pose_tablet(1))] + [('w%d' % k, (lambda k=k: pose_w(k / 8.))) for k in range(8)]
 rb = rig.matrix_world @ rig.pose.bones['root'].head; CXY = None
 for name, fn in POSES:
     fn(); dg = bpy.context.evaluated_depsgraph_get(); parts = []

diff --git a/extras/explainer-floor/blender/packposes.py b/extras/explainer-floor/blender/packposes.py
@@ -1,0 +1,18 @@
+# Pack the supervisor's held poses into one sheet, laid out like sprites.webp (8 x 8 cells): column = pose, row = heading.
+# usage: python packposes.py <site assets dir>
+import sys, numpy as np
+from PIL import Image
+S = '/home/user/x3d/out/spr3'; OUT = sys.argv[1]; C = 384
+LUTC = np.interp(np.arange(256) / 255., [0, .35, .745, 1], [0, .35, .8, 1])
+for lay, c in (('L', 384), ('P', 192)):
+    sh = Image.new('RGBA', (8 * c, 8 * c))
+    for h in range(4):
+        for p in range(7):
+            a = np.asarray(Image.open(f'{S}/pose_{h}_{p}.png').convert('RGBA')).astype(np.float32)
+            shm = (a[..., :3].sum(-1) < 45) & (a[..., 3] < 250)
+            a[shm, 3] *= .42; a[shm, 0] = 22; a[shm, 1] = 32; a[shm, 2] = 62; a[~shm, :3] = LUTC[a[~shm, :3].astype(np.uint8)] * 255
+            im = Image.fromarray(a.astype(np.uint8))
+            if c != C: im = im.resize((c, c), Image.LANCZOS)
+            sh.paste(im, (p * c, h * c))
+    sh.save(f'{OUT}/{lay}/poses.webp', 'WEBP', quality=78, alpha_quality=80, method=6)
+print('ok')
